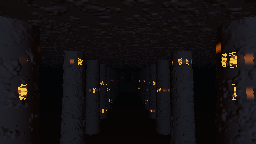
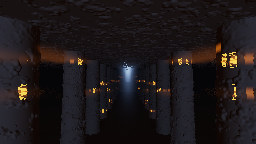
T1283: E68 stage 3 — the dust, and light you can see in the air
Everything before this showed light only where it LANDED. A buried hall has air in it, and
air is what lets you see a beam rather than infer one: 22 samples along the primary ray
carrying the inlay's glow near the columns and a cold shaft through the doorway at the far
end. Dust settles, so density thins with height — which puts the shaft's edge where the eye
expects it and keeps the vault from fogging over.

3.77 ms trimmed mean @1280x720 (3.771 / 3.763 / 3.777 across three alternated passes),
against 3.57 for stage 2. The dust costs +0.20 ms.

⚑ THE VOLUME READS A SMOOTHER FIELD THAN THE SURFACE DOES, and the two failures on the way
are the useful part.

Version one sampled the same spill field the stone uses. That field is hash-GATED and so
nearly binary, and 22 sparse samples through a binary volume is a speckle generator rather
than a fog — the frame came back as salt and pepper.

Version two smoothed it by dropping the hashes, and painted continuous horizontal bands the
full width of the hall: a row window is a function of HEIGHT ALONE, so with nothing keying
it to a place it stripes everything at that height. It read as striped fog rather than as
light near a wall.

What works keeps the row-and-bay gate — the air glows where there IS writing and not in bays
without any — and drops only the fine glyph and stroke hashes, which are what made it
speckle. Smooth where it needs to be smooth, placed where the light actually is.
[…]

diff --git a/src/examples/shaders/sanctum.wgsl.ts b/src/examples/shaders/sanctum.wgsl.ts
@@ -77,7 +77,11 @@ struct Params {
   ambient: f32,       // @default 0.16  fill, so a wall facing away is not a silhouette — warmed toward the inlay, because in a buried hall the only thing bouncing IS the inlay
   fog: f32,           // @default 0.055  depth haze — the aerial perspective, and the cost lever
   fogColor: vec4f,    // @default [0.045, 0.05, 0.062, 1]  what distance converges to
-  exposure: f32,      // @default 1  master gain before the display transform
+  exposure: f32,      // @default 1.35  master gain before the display transform
+  dust: f32,          // @default 0.032  how much dust hangs in the hall — this is what makes the light VISIBLE rather than only its landing place
+  dustSteps: f32,     // @default 22  volumetric samples along the ray, and the stage's whole cost
+  dustFloor: f32,     // @default 2.6  metres over which the dust thins with height: it settles
+  shaft: f32,         // @default 0.55  strength of the beam through the doorway, the one light that comes from outside
   steps: f32,         // @default 96  march iterations — the frame budget, stated as a number
 };
 
@@ -92,6 +96,8 @@ const SURFACE: f32 = 0.0025;
 const STONE_SEED: u32 = 68u;
 /* A second seed, so re-cutting the glyphs cannot move the stone under them. */
 const GLYPH_SEED: u32 = 690u;
+/* A third seed for the volumetric dither, so re-jittering cannot move the glyphs. */
+const DUST_SEED: u32 = 6802u;
 
 /* Value noise on the integer lattice — the hashes come from the shared 'hash' module, so
    this shader declares none of its own (T1286). */
@@ -252,6 +258,75 @@ fn normalAt(p: vec3f) -> vec3f {
   ));
 }
 
+/**
+ * THE DUST — and it is the stage that makes the inlay read as a LIGHT rather than as a set
+ * of bright marks.
+ *
+ * Everything before this only showed light where it LANDED. A buried hall has air in it,
+ * and air is what lets you see a beam rather than infer one: the glow pools around the
+ * channels become volumes, and the doorway stops being a bright rectangle and becomes a
+ * shaft lying across the nave.
+ *
+ * Two sources, sampled along the primary ray between the eye and whatever it hit:
+ *
+ *  - THE INLAY, through the same wide field the surface spill uses. It is a function of
+ *    position rather than of any surface, so it works in the air unchanged — which is the
+ *    second time that field has paid for itself.
+ *  - THE SHAFT from the doorway, which is the only light in the picture that comes from
+ *    outside the building. Modelled as a slab rather than traced: full strength near the
+ *    nave's axis and falling off with distance from it, which is what a doorway makes.
+ *
+ * DENSITY SETTLES. Dust is heavier than air, so it thins with height over 'dustFloor'
+ * metres — that is what puts the shaft's edge where the eye expects it and keeps the vault
+ * from fogging over.
+ *
+ * ⚑ THE START OFFSET IS DITHERED BY A HASH OF THE PIXEL, FIXED ACROSS FRAMES. A fixed step
+ * count through a volume bands; jittering removes the bands and a jitter that changes every
+ * frame turns them into boiling noise instead. E55 learned that one: the dither is GRAIN,
+ * never flicker (§V44 — this reads the pixel, not the clock).
+ */
+fn dustAlong(eye: vec3f, dir: vec3f, far: f32, pixel: vec2f) -> vec3f {
+  let count = i32(clamp(params.dustSteps, 2.0, 64.0));
+  let span = min(far, MAX_DISTANCE);
+  let stride = span / f32(count);
+  let jitter = unitFloat(hash2i(vec2i(pixel), DUST_SEED));
+  var accumulated = vec3f(0.0);
+  for (var i = 0; i < count; i = i + 1) {
+    let travel = (f32(i) + jitter) * stride;
+    let p = eye + dir * travel;
+    // Dust settles: thinner the higher you look.
+    let settle = exp(-max(p.y, 0.0) / max(params.dustFloor, 0.05));
+    /* ⚑ THE VOLUME READS A SMOOTH FIELD, NOT THE SURFACE ONE. The first version sampled
+       the same spill field the stone uses, and the result was salt-and-pepper: that field
+       is hash-GATED, so it is nearly binary, and 22 sparse samples through a binary volume
+       is a speckle generator rather than a fog. What the air wants is "roughly how much
+       light is near here", so the glyph hash goes and the row window stays — smooth in
+       every direction, and cheaper for losing a hash. */
+    let pitch = max(params.inlayRows, 0.05);
+    let row = floor(p.y / pitch);
+    let bayIndex = floor(p.z / max(params.bay, 0.1));
+    /* Gated by the SAME row-and-bay test the channels use, so the air glows where there is
+       writing and not in bays without any. Without this the row window is a function of
+       height alone and paints continuous horizontal bands the full width of the hall —
+       which is what the first smooth version did, and it read as a striped fog rather than
+       as light near a wall. The fine glyph and stroke hashes stay out: those are what made
+       the volume speckle. */
+    let live = unitFloat(hash3i(vec3i(i32(row), i32(bayIndex), 0), GLYPH_SEED));
+    let lit = step(live, clamp(params.inlayDensity, 0.0, 1.0));
+    let withinRow = abs(fract(p.y / pitch) - 0.5) * 2.0;
+    let rowPool = (1.0 - smoothstep(0.0, 1.0, withinRow)) * step(0.4, p.y) * lit;
+    // Near the columns, where the channels actually are — not out in the middle of the nave.
+    let nearColumn = 1.0 - smoothstep(0.45, 1.7, abs(abs(p.x) - params.aisle));
+    let glow = rowPool * nearColumn * params.inlayColor.rgb;
+    // The shaft: a slab of light down the nave's axis from the doorway, and it only exists
+    // deep in the hall where the doorway can see.
+    let axis = 1.0 - smoothstep(0.0, 2.0, abs(p.x));
+    let beam = axis * params.shaft * params.keyColor.rgb * smoothstep(6.0, 26.0, p.z);
+    accumulated = accumulated + ((glow + beam) * settle);
+  }
+  return accumulated * (params.dust * stride);
+}
+
 @fragment
 fn fs(@location(0) uv: vec2f) -> @location(0) vec4f {
   let aspect = 16.0 / 9.0;
@@ -306,6 +381,9 @@ fn fs(@location(0) uv: vec2f) -> @location(0) vec4f {
     let haze = 1.0 - exp(-travelled * params.fog);
     colour = mix(lit, params.fogColor.rgb, haze);
   }
+  /* The dust is ADDED over whatever the ray found, surface or nothing: light in the air is
+     in front of the thing behind it, not mixed with it. */
+  colour = colour + dustAlong(eye, dir, select(MAX_DISTANCE, travelled, hit), uv * vec2f(1280.0, 720.0));
 
   return vec4f(colour * params.exposure, 1.0);
 }

diff --git a/src/examples/documents/sanctum.ts b/src/examples/documents/sanctum.ts
@@ -83,7 +83,11 @@ export const sanctumDocument = document(
         ambient: 0.16,
         fog: 0.055,
         fogColor: [0.045, 0.05, 0.062, 1],
-        exposure: 1,
+        exposure: 1.35,
+        dust: 0.032,
+        dustSteps: 22,
+        dustFloor: 2.6,
+        shaft: 0.55,
         steps: 96,
       }, { label: "temple1" }),
       node("out", "output", [0, 0], { toneMap: "filmic" }, { label: "out1" }),

diff --git a/examples/E68-Sanctum.md b/examples/E68-Sanctum.md
@@ -77,6 +77,28 @@ several times the channel's width, and the fine stroke hash dropped entirely. It
 "is there writing near here", which is what a glow is. It is also cheaper than the version
 that did not work.
 
+## The dust is what makes the inlay a light
+
+Everything before stage 3 showed light only where it **landed**. A buried hall has air in
+it, and air is what lets you see a beam rather than infer one. Twenty-two samples along the
+primary ray, carrying the inlay's glow near the columns and a cold shaft through the doorway
+at the far end. Dust settles, so density thins with height — that is what puts the shaft's
+edge where the eye expects it and keeps the vault from fogging over.
+
+**The volume reads a smoother field than the surface does, and that is not a shortcut.** The
+first version sampled the same spill field the stone uses, and the result was salt and
+pepper: that field is hash-gated and so nearly binary, and twenty-two sparse samples through
+a binary volume is a speckle generator rather than a fog. The second version smoothed it and
+painted continuous horizontal bands the full width of the hall, because a row window is a
+function of height alone. What works keeps the row-and-bay gate — so the air glows where
+there is writing and not in bays without any — and drops the fine glyph and stroke hashes,
+which are what made it speckle.
+
+The march's start offset is dithered by a hash of the **pixel**, fixed across frames. A
+fixed step count through a volume bands; jittering removes the bands, and a jitter that
+changed every frame would turn them into boiling noise instead. The dither is grain, never
+flicker.
+
 ## What this file does not have
 
 It is a marcher, so it owns its own shading. That means **none of the scene family's PBR material** — none of the
@@ -98,6 +120,7 @@ means over 240 of 300 frames rather than medians, because Dawn quantizes timesta
 | --- | --- | --- |
 | 1 | the bare march: stone, erosion, one key | **2.94 ms** |
 | 2 | the inlay, its channels and its spill | **3.57 ms** |
+| 3 | the dust: light visible in the air, and the shaft | **3.77 ms** |
 
 The estimate that shaped the decision to build this was 25–35 ms. It was an estimate, and
 nothing had run it. The stages are measured separately and reported as each lands precisely
